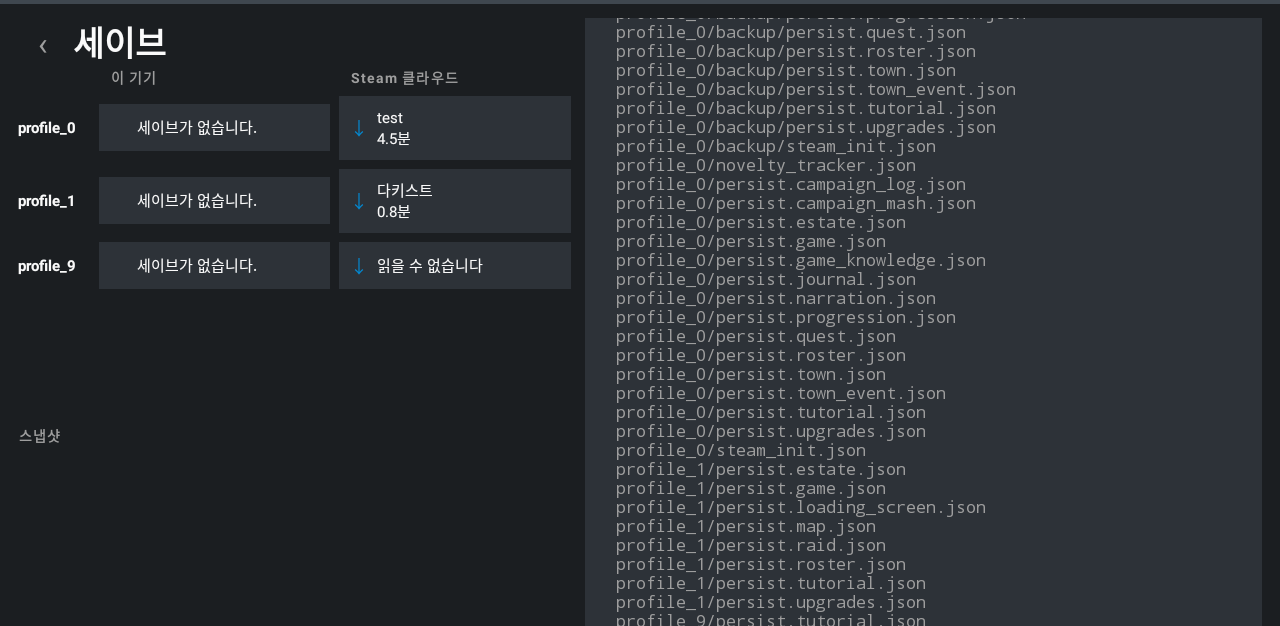
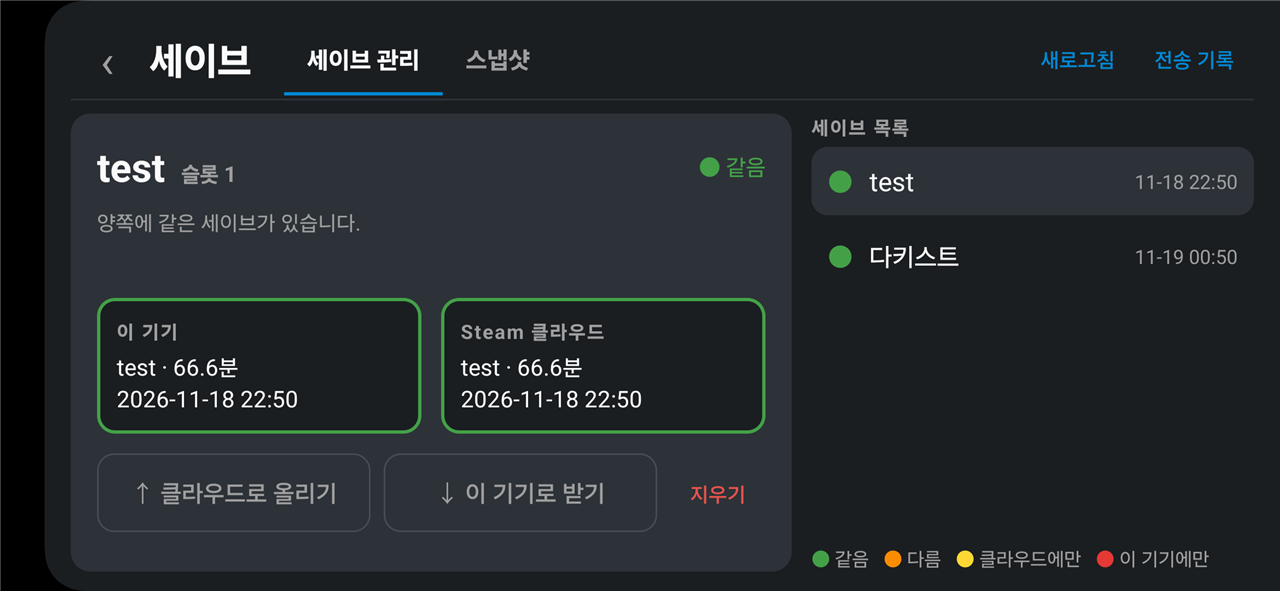
release: 0.1.17

diff --git a/README.md b/README.md
@@ -23,15 +23,19 @@ the game.
 |---|---|
 | **Install** | Steam sign-in by QR, or account and password with a phone approval or a Steam Guard code. Ownership checked across every package, the DLC list read from Steam's own table, per-DLC selection, resumable-free atomic install into `files/game` |
 | **Play** | One button. Touch input maps taps, drags and holds onto the game's mouse; the Android IME handles estate naming |
-| **Saves** | Steam Cloud listing per profile slot, download and upload, automatic snapshots before anything is overwritten |
-| **Mods** | Workshop search and browse, subscribe, queued download, update detection, enable/disable, local ZIP import |
-| **Battery** | Resolution, processor cores and screen refresh rate, each measured against the others rather than guessed at |
+| **Saves** | Every save on the phone and in Steam Cloud in one list, a coloured light for whether the two match, upload, download and delete, automatic snapshots before anything is overwritten |
+| **Mods** | Workshop search and browse, subscribe, queued download, update detection, enable/disable, local ZIP import, synchronised at sign-in. DLL mods dropped into `DD1/dll` |
+| **Battery** | A frame limit (30, 60 or none), resolution, processor cores and screen refresh rate, each measured against the others rather than guessed at |
 
 ### Battery
 
-The game has no frame limit and nothing in the stack can give it one, so it
-renders as fast as the phone allows and spends the battery doing it. Measured on
-a Galaxy S25, off charge:
+The game has no frame limit of its own, so it renders as fast as the phone
+allows - hundreds of frames a second on a menu - and spends the battery doing it.
+From 0.1.17 the launcher caps it: **60 FPS by default**, 30 or none in Settings →
+Display. It is a turn-based game; 30 runs cooler still.
+
+The measurements below were taken on a Galaxy S25, off charge, before the cap
+existed:
 
 | Settings | Battery | Hottest core |
 |---|---|---|
@@ -49,14 +53,17 @@ frames nobody sees.
 ### Mod manager
 
 Workshop browsing with preview images, sorting, and a column count that follows
-the screen. Subscriptions made anywhere — including on a PC — are pulled down
-automatically, and items unsubscribed there are removed here.
+the screen. Subscriptions made anywhere — including on a PC — are pulled down as
+soon as the launcher signs in, without opening the mod screen, and items
+unsubscribed there are removed here. DLL mods such as `winmm.dll` go into
+`DD1/dll` and sit beside `Darkest.exe` when you press Play.
 
 ### Saves and settings
 
-Each profile slot shows what is on the device beside what is in Steam Cloud, so
-a transfer is a deliberate act in a named direction. A slot that will not come
-down says so rather than half-restoring.
+One list holds every save, on the phone and in Steam Cloud, each with a light
+that says whether the two copies match. A transfer is a deliberate act in a
+named direction, and a slot that will not come down says so rather than
+half-restoring.
 
 ## Getting it running
 
@@ -152,17 +159,32 @@ already have one, bring it down before you play — see below.
 ### 5. Bring saves down from Steam Cloud
 
 <p align="center">
-  <img src="docs/screenshots/06-saves.png" width="70%" alt="Device saves beside cloud saves">
+  <img src="docs/screenshots/06-saves.png" width="70%" alt="One save in detail, the phone's copy beside the cloud's, and the list of saves on the right">
 </p>
 
-Drawer → **Saves**. Each profile slot shows what is on the phone beside what is
-in Steam Cloud, so a transfer is always a deliberate act in a named direction.
+Drawer → **Saves**. The list on the right names every save by its estate and the
+time it was saved; the light in front of it says where it stands:
+
+| Light | Meaning |
+|---|---|
+| 🟢 Green | The phone and the cloud hold the same save |
+| 🟠 Orange | They differ - the detail says which is newer |
+| 🟡 Yellow | Only in the cloud |
+| 🔴 Red | Only on the phone |
+
+Tap one and the left side shows the phone's copy beside the cloud's, outlined in
+green when they match.
 
 | | |
 |---|---|
-| ↓ beside a cloud slot | Download it onto the phone |
-| ↑ beside a device slot | Upload the phone's copy |
-| **Snapshots** | Automatic copies taken before anything is overwritten |
+| **↑ Upload to cloud** | Send the phone's copy. Files the phone no longer has are removed from the cloud as well, so a PC does not pull back an old expedition |
+| **↓ Download to this device** | Bring the cloud's copy onto the phone |
+| **Delete** | Remove the phone's copy, after taking a snapshot. The cloud copy stays |
+| **Snapshots** tab | Automatic copies taken before anything is overwritten |
+| **Transfer log** | The last result; **Details** lists every file |
+
+One transfer runs at a time. The cloud listing is read when the launcher signs
+in, so the screen opens on an answer.
 
 A slot that cannot be downloaded whole says so and changes nothing — half a save
 is a save nobody can load. Steam sometimes lists a file it has no content for,
@@ -179,13 +201,29 @@ rest are unaffected.
 </p>
 
 Drawer → **Mod manager**. Subscriptions made anywhere — including on a PC — are
-pulled down when the screen opens, and anything unsubscribed there is removed
-here.
+pulled down as soon as the launcher signs in, and anything unsubscribed there is
+removed here. A card at the bottom right says how many were synchronised or
+removed, and the notification shade shows the download.
 
 | Tab | What it holds |
 |---|---|
 | **Workshop** | Search by name, or paste a Workshop URL or ID. Sort by popularity, date or rating; the grid button cycles 2, 3 and 4 columns. Tap a card for the full description and screenshots |
 | **My mods** | What is installed, what has an update waiting, and what is switched off. **Import ZIP** adds a mod by hand |
+| **DLL mods** | What is in `DD1/dll`, and whether each file is in use or waits for the next Play |
+
+<p align="center">
+  <img src="docs/screenshots/10-dll-mods.png" width="70%" alt="The DLL mods tab and how files in DD1/dll are placed">
+</p>
+
+**DLL mods.** Put the DLL in `DD1/dll` and press Play: it goes beside
+`Darkest.exe`, the executable the launcher runs. A PC guide's
+`_windows/win64/winmm.dll` works too, folder and all. Wine is told to use your
+DLL before its own build of the same name - without that, Wine quietly keeps
+its own. Any other file in `DD1/dll` is laid over the game at the same path,
+and taking a file out puts the game's original back at the next Play.
+
+**The DD1 folder.** *Change folder* picks one folder, the DD1 folder, and the
+launcher makes `mods` and `dll` inside it.
 
 Downloads run one at a time and the notification says which: `3/12 · Plague
 Doctor skins mod · 42%`. Nothing is swapped into the game until a mod has
@@ -197,13 +235,14 @@ part of the save, and the launcher does not edit saves.
 ### 7. Make it last
 
 <p align="center">
-  <img src="docs/screenshots/07-settings.png" width="70%" alt="Settings: cores, refresh rate and translation">
+  <img src="docs/screenshots/07-settings.png" width="70%" alt="Settings, Display: resolution, refresh rate and frame limit">
 </p>
 
 Drawer → **Settings**. The defaults are safe; these are worth changing:
 
 | Setting | Why |
 |---|---|
+| **Frame limit → 30 FPS** | 60 is the default. A turn-based game loses nothing at 30, and the phone runs cooler |
 | **Resolution → 1280x720** | The game renders 720p anyway. Fewer pixels, 24 °C off the hottest core, no visible difference |
 | **Processor cores → Efficiency cores only** | The largest single win. See [Battery](#battery) |
 | **Screen refresh rate → 60 Hz while playing** | The panel runs at 120 Hz whatever the game does |
@@ -232,7 +271,7 @@ screen - the same place the first download reported.
 The version of each DLC on the device is recorded outside the game folder, so
 rebuilding the install does not lose track of what is current.
 
-**Workshop mods** are re-read every time the mod manager opens. Whether you
+**Workshop mods** are re-read when the launcher signs in and every time the mod manager opens. Whether you
 subscribed on a PC or the author patched a mod, it surfaces here and starts
 fetching what is missing. Three places show how far it has got.
 
@@ -291,21 +330,27 @@ go through that path - which is why one shows and the other does not.
 > The figure above is a drawing of the symptom, not a capture of the game. No
 > game imagery is kept in this repository.
 
-**Drawer, Settings, `Graphics driver` at the bottom.** The *Automatic* row names
-this device's GPU and the drivers it chose from it.
+**Drawer, Settings, the `Graphics` tab.** The top of it names this device's GPU
+and the driver in use.
 
 <p align="center">
-  <img src="docs/screenshots/08-graphics.png" width="70%" alt="The graphics driver section: the GPU detected, the drivers applied, and the list to choose from">
+  <img src="docs/screenshots/08-graphics.png" width="70%" alt="The graphics tab: the GPU detected, the driver in use, the dropdown and Advanced">
 </p>
 
-Quote those two lines from *Automatic* in the issue - the GPU and the drivers.
-Most of the time they are enough to narrow it down.
+Quote those two lines in the issue - the GPU and the driver. Most of the time
+they are enough to narrow it down.
 
-**You can also change it here.** Each entry says which devices it is for, so if
-the automatic answer did not suit yours, pick the one matching the GPU name - on
-Exynos and Mali parts with a black picture that is *Exynos and other devices
-(VirGL)*. It takes effect the next time you press Play, and Automatic puts it
-back.
+**You can also change it here.** Open the dropdown: each entry says which
+devices it is for, so if the automatic answer did not suit yours, pick the one
+matching the GPU name - on Exynos and Mali parts with a black picture that is
+*Exynos and other devices (Vortek + VirGL)*. It takes effect the next time you
+press Play, and Automatic puts it back.
+
+**Advanced** picks the Vulkan driver (Turnip or Vortek) and the OpenGL path
+(Gladio, Zink or VirGL) separately, the way Winlator does, and takes a Vulkan
+driver you supply as an AdrenoTools zip. **FPS display** in the same tab draws
+frame rate, memory and CPU clock over the game - worth a screenshot when
+reporting stutter.
 
 Also worth having in the issue:
 
@@ -331,9 +376,13 @@ and saves are not lost, so do not uninstall - that costs you the 4GB again.
 
 ### A save will not upload
 
-The log on the save screen says what was sent and
-what was refused, and `adb logcat -d | grep DD1Cloud` carries the reason Steam
-gave, verbatim. Paste that line.
+A failed upload says why on the save screen, in Steam's own
+words; **Transfer log → Details** lists what was sent and what was refused. Paste
+that in the issue. `adb logcat -d | grep DD1Cloud` carries the same reason.
+
+If an upload succeeded but a PC then loads an old expedition, update to 0.1.17
+and upload again: earlier versions left files the phone no longer had in the
+cloud.
 
 ### The game says a DLC is missing
 

diff --git a/docs/RELEASE_NOTES.md b/docs/RELEASE_NOTES.md
@@ -2,6 +2,94 @@
 
 새 릴리스가 위에 옵니다. 릴리스 본문에 그대로 붙여 쓰는 글입니다.
 
+## 0.1.17
+
+0.1.16 위에 그대로 덮어 설치됩니다. 게임과 세이브는 그대로 남습니다.
+
+### 최신 스냅드래곤에서 프레임이 떨어지고 터치가 씹히던 문제를 고쳤습니다 (#5)
+
+**갤럭시 S26 Ultra(Adreno 840)에서 세이브 목록, 영지, 전투가 20 FPS 안팎으로 떨어지고
+터치가 몇 번씩 씹히던 문제를 고쳤습니다.** 실제 S26 Ultra를 빌려 확인했습니다. 이제
+세이브 목록, 영지, 전투 모두 60 FPS를 유지하고 터치도 바로 먹습니다. 1280x720과
+1920x1080 모두 같습니다. 갤럭시 S22에서도 같은 전투가 약 22 FPS에서 60 FPS가 됐습니다.
+
+원인은 그래픽 드라이버가 아니라 게임과 화면 사이의 대화 방식이었습니다. 게임은 한
+프레임에도 수백 번 화면 쪽에 묻고 답을 기다리는데, 최신 안드로이드(리눅스 6.6 이후)의
+작업 순서 방식에서는 이 기다림이 크게 늘어졌습니다. 그래서 게임이 쓰는 그래픽
+라이브러리(Gladio)를 다키스트 던전에 맞게 고쳐서 런처에 넣었습니다. 같은 질문은 한 번만
+묻고, 답이 필요 없는 일은 기다리지 않으며, 기다릴 때는 코어를 붙잡지 않고 잠듭니다.
+
+- **설정 → 화면에 "프레임 제한"이 생겼습니다.** 30 / 60 / 제한 없음 중에서 고를 수 있고,
+  기본값은 60입니다. 전에는 제한이 없어서 메뉴와 로딩 화면에서도 1초에 수백 장을 그리며
+  배터리와 발열만 늘었습니다. 턴제 게임이라 30으로 두면 발열이 더 줄어듭니다
+- 0.1.16에서 시험용으로 넣었던 "스냅드래곤 기기 · 기기 드라이버 (Vortek + Zink)"는 이제
+  필요 없습니다. 끊김 때문에 바꾸셨다면 자동으로 되돌려 주세요
+- **설정 → 그래픽에 "FPS 표시"가 생겼습니다.** 게임 화면 위에 초당 프레임, 메모리, CPU
+  클럭을 띄웁니다. 끊김을 제보할 때 이 숫자가 있으면 원인을 찾기 쉽습니다
+
+### 설정
+
+- **그래픽 드라이버를 드롭다운으로 고릅니다.** 펼치면 항목마다 누구를 위한 것인지 설명이
+  나옵니다
+- **"고급 설정"을 펼치면 Vulkan 드라이버(Turnip / Vortek)와 OpenGL 방식(Gladio / Zink /
+  VirGL)을 따로 고를 수 있습니다.** Winlator처럼 직접 조합하고 싶은 분을 위한 것입니다.
+  직접 받은 Vulkan 드라이버 파일(AdrenoTools zip)도 여기서 넣습니다
+- **설정에 들어갔다 나오면 Steam 로그인이 풀리던 문제를 고쳤습니다.** 화면을 옮길 때마다
+  Steam에 다시 로그인하고 있었고, 네트워크가 느리면 로그인 정보를 지워 버렸습니다
+
+### DLL 모드
+
+**모드 관리자에 "DLL 모드" 탭이 생겼습니다.** `winmm.dll` 같은 DLL 모드를 쓰고 싶다는
+요청에 따른 기능입니다.
+
+- **`DD1/dll`에 DLL을 넣고 플레이를 누르면, 게임이 실행하는 `Darkest.exe` 옆에 들어갑니다.**
+  PC 안내처럼 `_windows/win64` 폴더째 넣어도 같은 곳으로 갑니다. 폴더 구조를 맞춰 넣은
+  다른 파일은 게임 폴더의 같은 위치로 덮어써집니다
+- 넣은 DLL은 Wine에 들어 있는 같은 이름의 DLL보다 먼저 쓰입니다. 전에는 파일을 넣어도
+  Wine이 자기 것을 써서 DLL 모드가 동작하지 않았습니다
+- 파일을 빼면 다음 플레이 때 게임의 원래 파일로 돌아갑니다
+- DLL 모드 탭에서 파일마다 "사용 중 / 다음 플레이 때 적용 / 빠짐"을 확인할 수 있습니다
+- **이전의 `DD1/overrides` 폴더는 `DD1/dll`로 자동으로 옮겨집니다**
+
+### DD1 폴더
+
+- **모드 관리자의 폴더 변경은 이제 "DD1 폴더"를 고릅니다.** 고른 폴더 안에 `mods`와 `dll`
+  폴더를 만들어 씁니다. 전에 모드 폴더를 직접 지정하셨다면 다시 고르기 전까지 그대로
+  씁니다
+
+### 세이브
+
+**세이브 화면을 새로 만들었습니다.**
+
+- 오른쪽 목록에 세이브가 영지 이름과 저장 시각으로 나옵니다. 이름 앞의 불 색으로 상태를
+  보여 줍니다: 초록 같음, 주황 다름, 노랑 클라우드에만, 빨강 이 기기에만
+- 왼쪽에는 고른 세이브의 이 기기와 클라우드 정보가 나란히 나옵니다. 양쪽이 같으면 초록
+  테두리가 들어오고, 다르면 어느 쪽이 더 최근인지 알려 줍니다
+- "이 기기에서 지우기"가 생겼습니다. 지우기 전에 스냅샷을 남기고, 클라우드 사본은
+  그대로 둡니다
+- 스냅샷은 별도 탭으로 옮겼습니다. 전송 기록은 결과만 보여 주고, "자세히"를 누르면
+  파일별 기록이 나옵니다
+- 올리기나 받기가 진행 중이면 다른 작업을 막습니다
+- **클라우드로 올린 세이브를 PC에서 받을 때 꼬이던 문제를 고쳤습니다.** 원정 중에만 생기는
+  파일(`persist.raid.json` 등)이 클라우드에 남아 있어서, 마을 세이브를 올려도 PC가 옛 원정
+  파일까지 함께 받았습니다. 이제 올릴 때 폰에 없는 파일은 클라우드에서도 지웁니다
+- 올리기에 실패하면 Steam이 알려 준 이유를 함께 보여 줍니다
+- 앱을 켤 때 클라우드 세이브 목록을 미리 읽어 두어서, 세이브 화면이 바로 열립니다
+
+### 모드 관리자
+
+- **앱을 켜고 로그인이 끝나면 창작마당 모드를 바로 동기화합니다.** 모드 관리자를 열지
+  않아도 됩니다. 새로 구독한 모드를 받는 동안에는 상단 알림에 진행 상황이 나오고, Steam에서
+  구독을 취소한 모드는 폰에서 지웁니다
+- 목록의 카드 높이를 맞췄습니다
+
+### 화면
+
+- 카드, 버튼, 확인 창을 둥글게 다듬고, 홈과 메뉴에 앱 아이콘을 넣었습니다
+- 알림이 화면 오른쪽 아래의 카드로 나옵니다. 예를 들어 "창작마당 모드 2개를
+  동기화합니다", "구독 취소한 모드 1개를 지웠습니다"처럼 나옵니다
+- 진단 로그를 켜면 `DD1/logs/logcat.txt`에 안드로이드 쪽 기록도 함께 남습니다
+
 ## 0.1.16
 
 0.1.15 위에 그대로 덮어 설치됩니다. 게임과 세이브는 그대로 남습니다.
